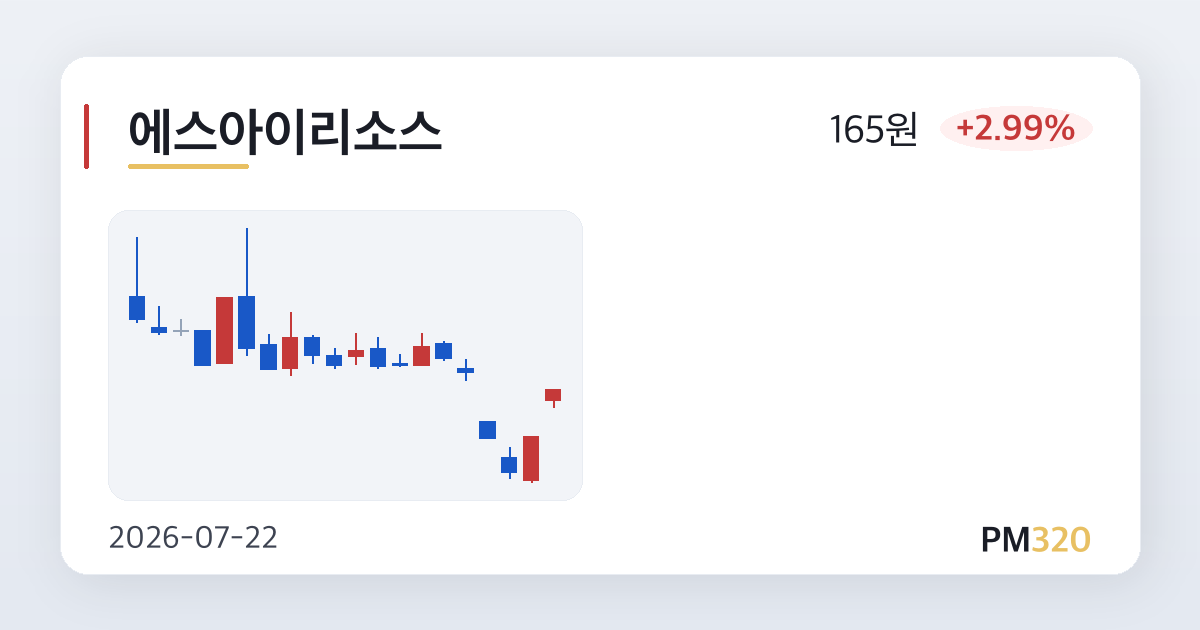
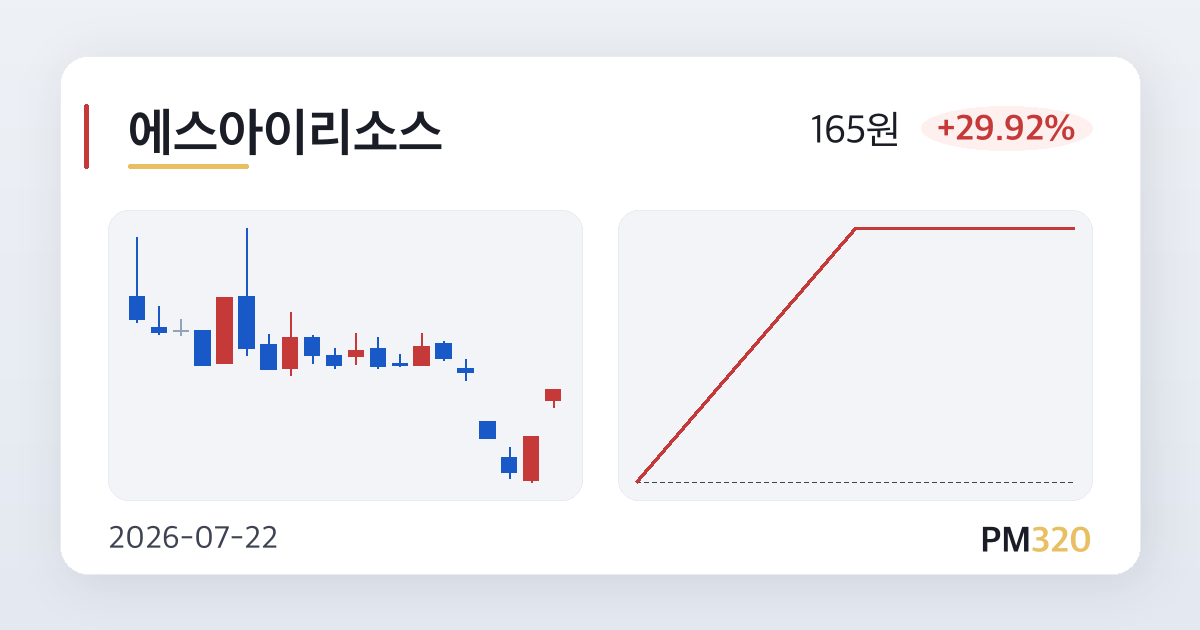
chore(kiwoom): 2026-07-22T09:26 condition search update

diff --git a/pm320/2026-07-22/065420.html b/pm320/2026-07-22/065420.html
@@ -5,13 +5,13 @@
 <title>에스아이리소스</title>
 <meta property="og:title" content="에스아이리소스">
 <meta property="og:description" content="기타 화학제품 제조업 · 오늘의 주목 종목">
-<meta property="og:image" content="https://pm320.100m1s.com/og/pm320/2026-07-22/065420.png?v=1784679091">
+<meta property="og:image" content="https://pm320.100m1s.com/og/pm320/2026-07-22/065420.png?v=1784679702">
 <meta property="og:image:width" content="1200">
 <meta property="og:image:height" content="630">
 <meta property="og:url" content="https://pm320.100m1s.com/pm320/2026-07-22/065420.html">
 <meta property="og:type" content="article">
 <meta name="twitter:card" content="summary_large_image">
-<meta name="twitter:image" content="https://pm320.100m1s.com/og/pm320/2026-07-22/065420.png?v=1784679091">
+<meta name="twitter:image" content="https://pm320.100m1s.com/og/pm320/2026-07-22/065420.png?v=1784679702">
 <meta name="robots" content="index, follow">
 <script>
 (function() {

diff --git a/pm320/2026-07-22/484810.html b/pm320/2026-07-22/484810.html
@@ -5,13 +5,13 @@
 <title>티엑스알로보틱스</title>
 <meta property="og:title" content="티엑스알로보틱스">
 <meta property="og:description" content="일반 목적용 기계 제조업 · 오늘의 주목 종목">
-<meta property="og:image" content="https://pm320.100m1s.com/og/pm320/2026-07-22/484810.png?v=1784679091">
+<meta property="og:image" content="https://pm320.100m1s.com/og/pm320/2026-07-22/484810.png?v=1784679703">
 <meta property="og:image:width" content="1200">
 <meta property="og:image:height" content="630">
 <meta property="og:url" content="https://pm320.100m1s.com/pm320/2026-07-22/484810.html">
 <meta property="og:type" content="article">
 <meta name="twitter:card" content="summary_large_image">
-<meta name="twitter:image" content="https://pm320.100m1s.com/og/pm320/2026-07-22/484810.png?v=1784679091">
+<meta name="twitter:image" content="https://pm320.100m1s.com/og/pm320/2026-07-22/484810.png?v=1784679703">
 <meta name="robots" content="index, follow">
 <script>
 (function() {